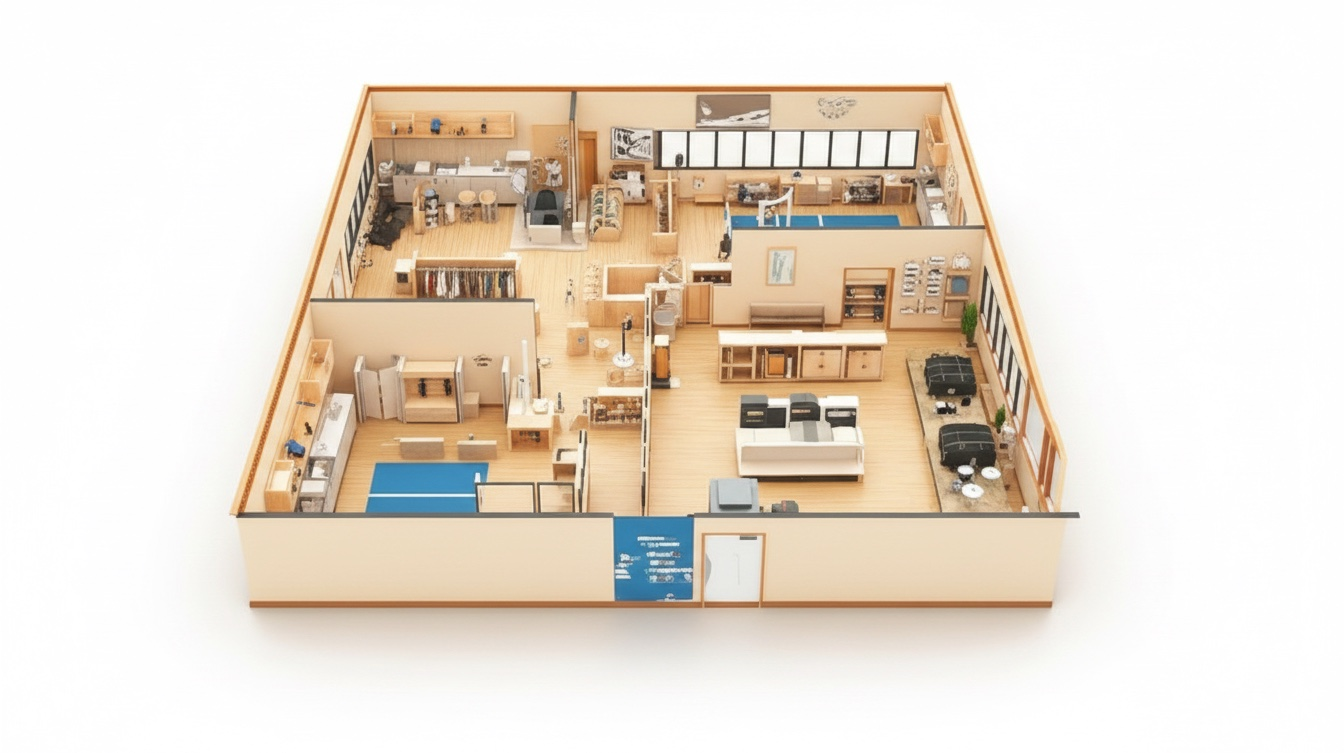
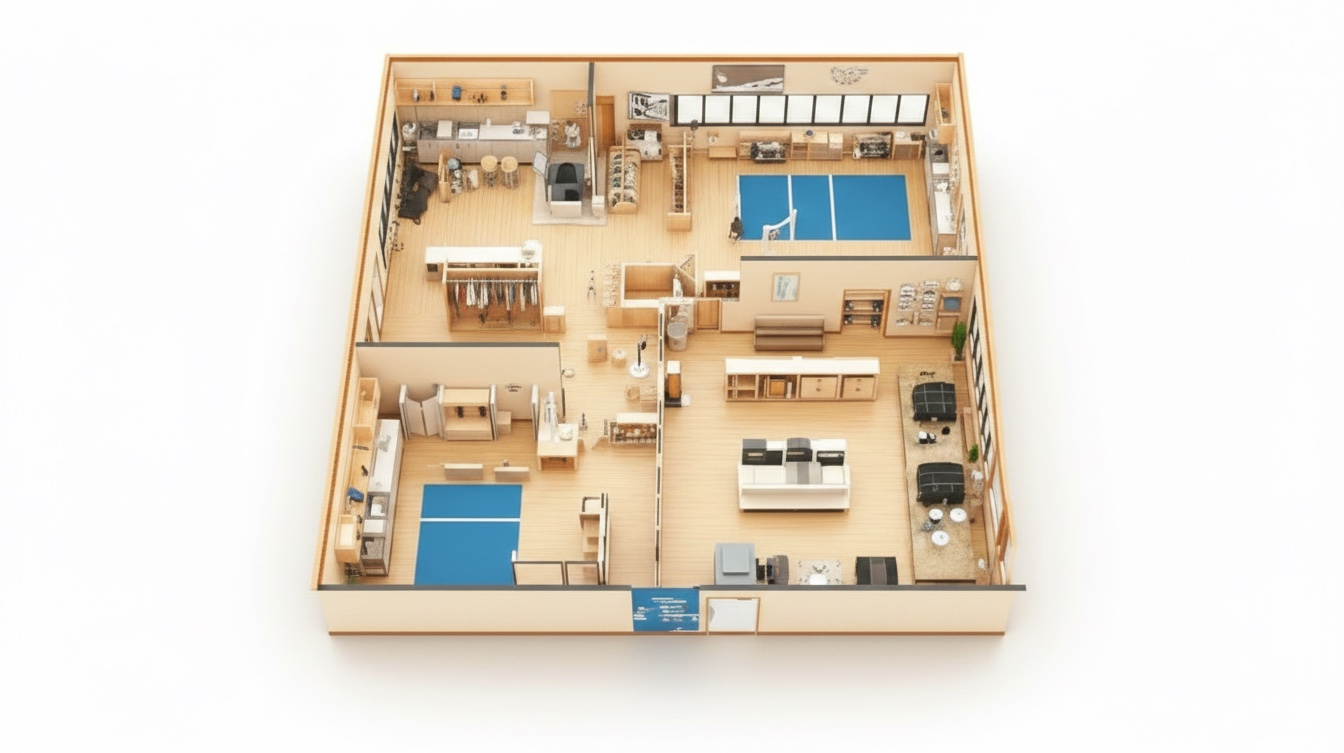
Fix 360 viewer initialization and default frame

diff --git a/src/components/FloorPlanHeatmap.vue b/src/components/FloorPlanHeatmap.vue
@@ -173,7 +173,7 @@ onMounted(() => {
 async function initialize360Viewer(attempt = 0) {
   await nextTick()
 
-  if (typeof window.CI360 !== 'function') {
+  if (!window.CI360) {
     if (attempt < 30) {
       window.setTimeout(() => initialize360Viewer(attempt + 1), 100)
     }
@@ -181,7 +181,14 @@ async function initialize360Viewer(attempt = 0) {
   }
 
   try {
-    const viewer = new window.CI360()
+    const viewer = typeof window.CI360 === 'function'
+      ? new window.CI360()
+      : window.CI360
+
+    if (typeof viewer.initAll !== 'function') {
+      throw new TypeError('Cloudimage 360 initAll() is unavailable.')
+    }
+
     viewer.initAll()
     viewerReady.value = true
   } catch (error) {
@@ -336,6 +343,12 @@ function zoneHitStyle(id) {
   width: auto !important;
   height: auto !important;
   object-fit: contain !important;
+}
+
+.store-viewer :deep(.cloudimage-360-hints-overlay),
+.store-viewer :deep(.cloudimage-360-zoom-controls),
+.store-viewer :deep(.cloudimage-loading-spinner) {
+  display: none !important;
 }
 
 .heat-overlay {